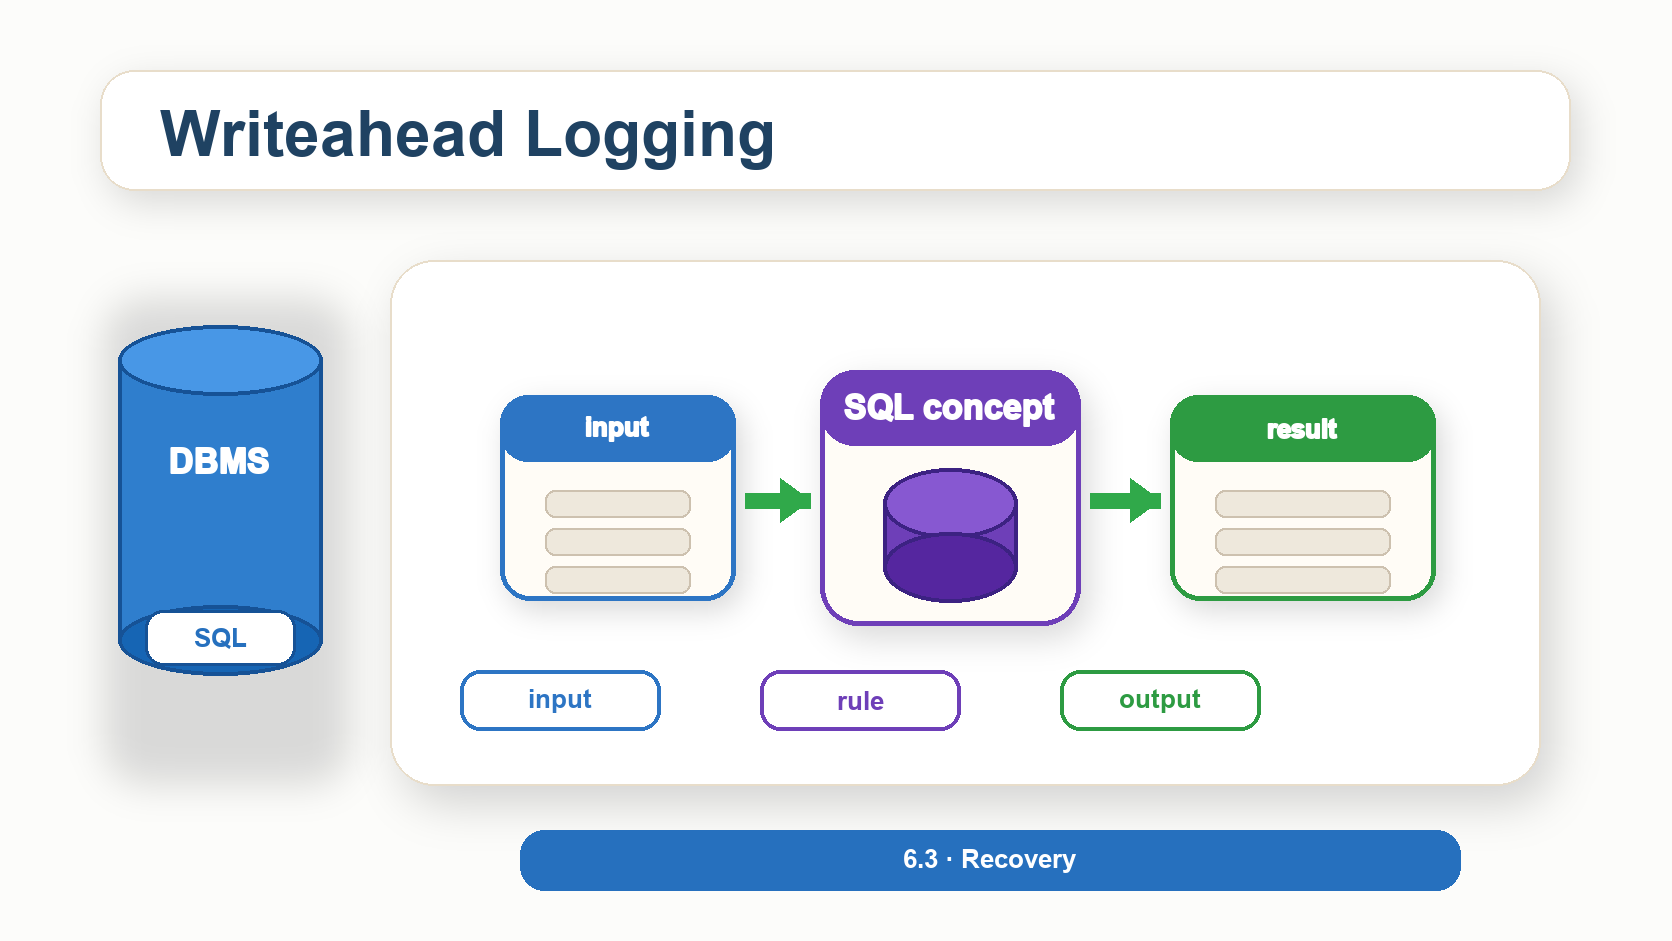
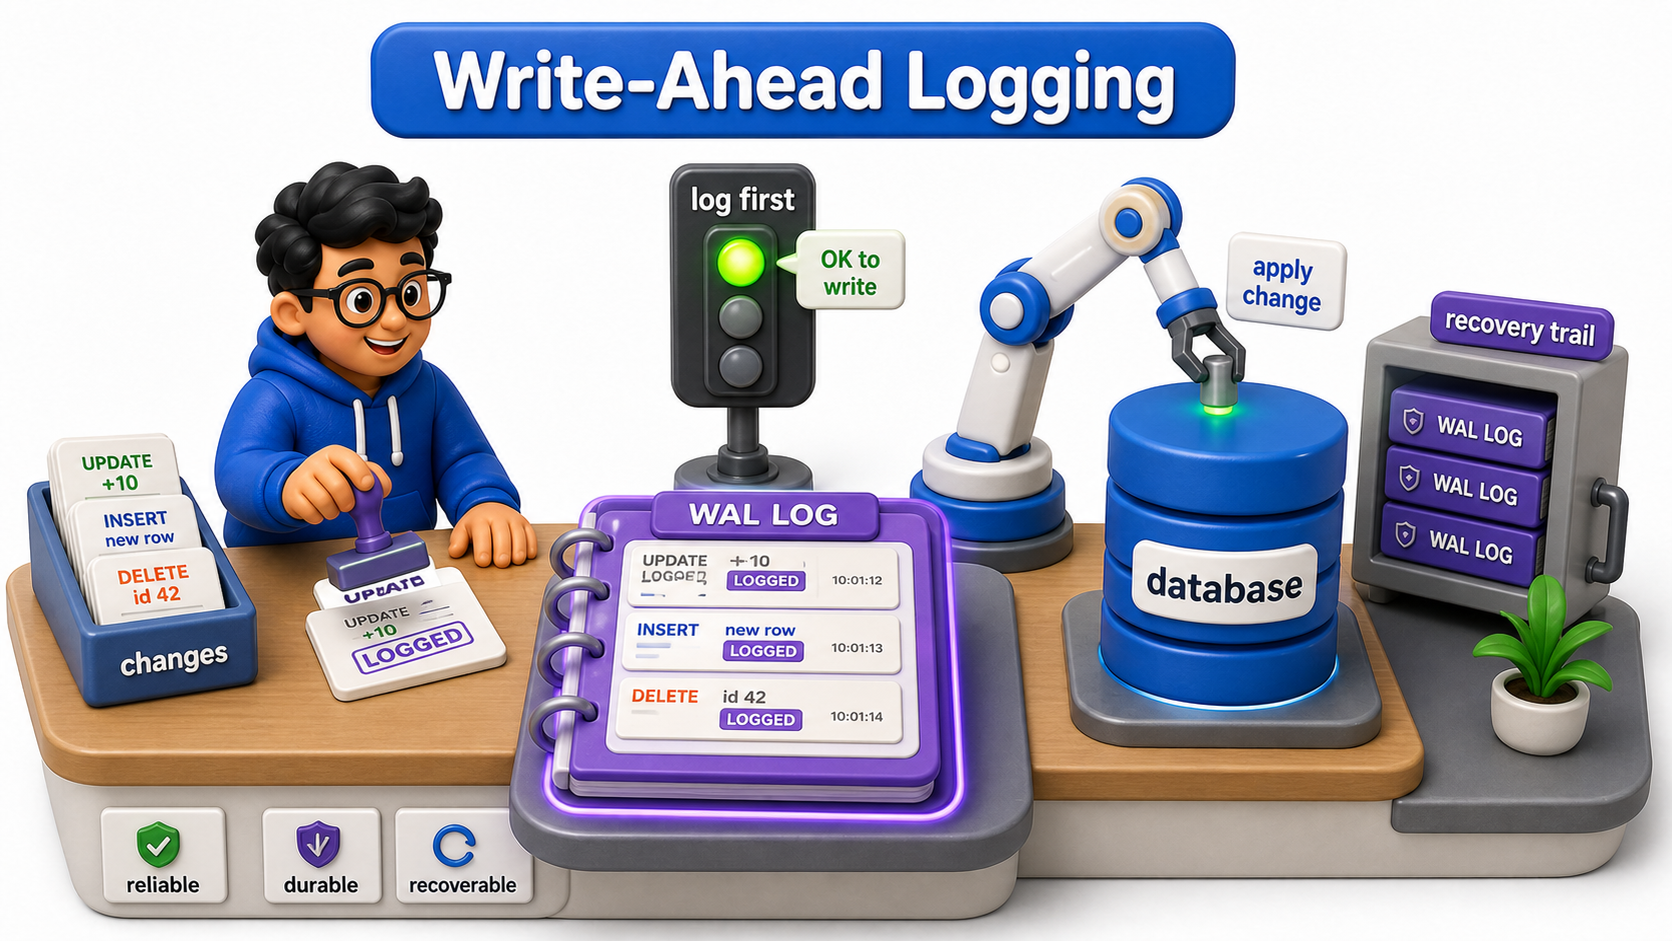
Replace unit 6.3 intro placeholders with actual 3D visuals

diff --git a/content/DBMS_Upload_Chapters/6.3 - Recovery/05_transactions_in_application_code.md b/content/DBMS_Upload_Chapters/6.3 - Recovery/05_transactions_in_application_code.md
@@ -6,7 +6,7 @@ Closing out this unit means connecting everything learned about transactions, AC
 
 **Definition:** Every guarantee this unit has built, atomicity, consistency, isolation, durability, concurrency control, and crash recovery, ultimately exists so that application code can follow one simple, disciplined pattern: begin a transaction around exactly the statements that must succeed or fail together, commit only when all of them succeed, roll back on any failure, keep the transaction short, and retry safely when a deadlock is the cause.
 
-![Intro visual for transactions in application code](https://s3.ap-south-1.amazonaws.com/static.bytexl.app/uploads/44sjn9mdv/content/images/05_intro_transactions_in_application_code_clean_bf801640.png)
+![Intro visual for transactions in application code](https://s3.ap-south-1.amazonaws.com/static.bytexl.app/uploads/44sjn9mdv/content/images/05_intro_transactions_in_application_code_actual3d_62f8324f.png)
 
 ## Auto-commit: The Default Behavior Worth Knowing About
 

diff --git a/content/DBMS_Upload_Chapters/6.3 - Recovery/04_undo_and_redo_how_a_database_rolls_back_and_replay.md b/content/DBMS_Upload_Chapters/6.3 - Recovery/04_undo_and_redo_how_a_database_rolls_back_and_replay.md
@@ -6,7 +6,7 @@ Committed work must be preserved, durability demands it. Uncommitted work must b
 
 **Definition:** Redo reapplies every committed transaction's changes to guarantee durability, and undo reverses every uncommitted transaction's changes to guarantee atomicity, and together the two passes are what actually turn a crashed, potentially inconsistent set of data files back into an exact, correct reflection of every transaction that had genuinely finished before the crash.
 
-![Intro visual for undo and redo how a database rolls back](https://s3.ap-south-1.amazonaws.com/static.bytexl.app/uploads/44sjn9mdv/content/images/04_intro_undo_and_redo_how_a_database_rolls_back_and_repl_clean_1011bf80.png)
+![Intro visual for undo and redo how a database rolls back](https://s3.ap-south-1.amazonaws.com/static.bytexl.app/uploads/44sjn9mdv/content/images/04_intro_undo_and_redo_how_a_database_rolls_back_and_replay_actual3d_b1af3dde.png)
 
 ## Redo: Replaying Committed Work That Never Made It to Disk
 

diff --git a/content/DBMS_Upload_Chapters/6.3 - Recovery/03_checkpoints_bounding_how_far_back_recovery_must_go.md b/content/DBMS_Upload_Chapters/6.3 - Recovery/03_checkpoints_bounding_how_far_back_recovery_must_go.md
@@ -5,7 +5,7 @@
 
 **Definition:** A checkpoint marks a point where every previously logged change is guaranteed to already be written to the actual data files, giving recovery a recent, known starting point instead of forcing it to replay a database's entire history after every crash, at the cost of periodic disk activity that has to be balanced against how quickly the system needs to recover.
 
-![Intro visual for checkpoints bounding how far back recovery must go](https://s3.ap-south-1.amazonaws.com/static.bytexl.app/uploads/44sjn9mdv/content/images/03_intro_checkpoints_bounding_how_far_back_recovery_must_clean_a7001b25.png)
+![Intro visual for checkpoints bounding how far back recovery must go](https://s3.ap-south-1.amazonaws.com/static.bytexl.app/uploads/44sjn9mdv/content/images/03_intro_checkpoints_bounding_how_far_back_recovery_must_go_actual3d_a0599dd7.png)
 
 ## What a Checkpoint Actually Does
 

diff --git a/content/DBMS_Upload_Chapters/6.3 - Recovery/02_writeahead_logging.md b/content/DBMS_Upload_Chapters/6.3 - Recovery/02_writeahead_logging.md
@@ -6,7 +6,7 @@ This ordering, log first, data files second, is the entire foundation of how a d
 
 **Definition:** `Write-ahead logging` guarantees that a durable record of every change exists before the change is considered complete, which is what allows a database to safely defer the slower work of updating actual data files while still guaranteeing that a crash can never lose a committed transaction's effect.
 
-![Intro visual for writeahead logging](https://s3.ap-south-1.amazonaws.com/static.bytexl.app/uploads/44sjn9mdv/content/images/02_intro_writeahead_logging_clean_31131ca8.png)
+![Intro visual for writeahead logging](https://s3.ap-south-1.amazonaws.com/static.bytexl.app/uploads/44sjn9mdv/content/images/02_intro_writeahead_logging_actual3d_a575025e.png)
 
 ## Why Writing Directly to Data Files Is Not Enough
 

diff --git a/content/DBMS/6 - Transactions & Reliability/6.3 - Recovery/04_undo_and_redo_how_a_database_rolls_back_and_replay.md b/content/DBMS/6 - Transactions & Reliability/6.3 - Recovery/04_undo_and_redo_how_a_database_rolls_back_and_replay.md
@@ -20,7 +20,7 @@ ON-IMAGE TEXT: show a short bold title "Undo And Redo How A Database Rolls Back"
 GOAL: make the opening idea instantly clear and engaging while matching the existing DBMS reading-material image standards.
 -->
 
-![Intro visual for undo and redo how a database rolls back](https://s3.ap-south-1.amazonaws.com/static.bytexl.app/uploads/44sjn9mdv/content/images/04_intro_undo_and_redo_how_a_database_rolls_back_and_repl_clean_1011bf80.png)
+![Intro visual for undo and redo how a database rolls back](https://s3.ap-south-1.amazonaws.com/static.bytexl.app/uploads/44sjn9mdv/content/images/04_intro_undo_and_redo_how_a_database_rolls_back_and_replay_actual3d_b1af3dde.png)
 
 ## Redo: Replaying Committed Work That Never Made It to Disk
 

diff --git a/content/DBMS/6 - Transactions & Reliability/6.3 - Recovery/03_checkpoints_bounding_how_far_back_recovery_must_go.md b/content/DBMS/6 - Transactions & Reliability/6.3 - Recovery/03_checkpoints_bounding_how_far_back_recovery_must_go.md
@@ -19,7 +19,7 @@ ON-IMAGE TEXT: show a short bold title "Checkpoints Bounding How Far Back Recove
 GOAL: make the opening idea instantly clear and engaging while matching the existing DBMS reading-material image standards.
 -->
 
-![Intro visual for checkpoints bounding how far back recovery must go](https://s3.ap-south-1.amazonaws.com/static.bytexl.app/uploads/44sjn9mdv/content/images/03_intro_checkpoints_bounding_how_far_back_recovery_must_clean_a7001b25.png)
+![Intro visual for checkpoints bounding how far back recovery must go](https://s3.ap-south-1.amazonaws.com/static.bytexl.app/uploads/44sjn9mdv/content/images/03_intro_checkpoints_bounding_how_far_back_recovery_must_go_actual3d_a0599dd7.png)
 
 ## What a Checkpoint Actually Does
 

diff --git a/content/DBMS/6 - Transactions & Reliability/6.3 - Recovery/05_transactions_in_application_code.md b/content/DBMS/6 - Transactions & Reliability/6.3 - Recovery/05_transactions_in_application_code.md
@@ -20,7 +20,7 @@ ON-IMAGE TEXT: show a short bold title "Transactions In Application Code" plus o
 GOAL: make the opening idea instantly clear and engaging while matching the existing DBMS reading-material image standards.
 -->
 
-![Intro visual for transactions in application code](https://s3.ap-south-1.amazonaws.com/static.bytexl.app/uploads/44sjn9mdv/content/images/05_intro_transactions_in_application_code_clean_bf801640.png)
+![Intro visual for transactions in application code](https://s3.ap-south-1.amazonaws.com/static.bytexl.app/uploads/44sjn9mdv/content/images/05_intro_transactions_in_application_code_actual3d_62f8324f.png)
 
 ## Auto-commit: The Default Behavior Worth Knowing About
 

diff --git a/content/DBMS/6 - Transactions & Reliability/6.3 - Recovery/02_writeahead_logging.md b/content/DBMS/6 - Transactions & Reliability/6.3 - Recovery/02_writeahead_logging.md
@@ -20,7 +20,7 @@ ON-IMAGE TEXT: show a short bold title "Writeahead Logging" plus only these few 
 GOAL: make the opening idea instantly clear and engaging while matching the existing DBMS reading-material image standards.
 -->
 
-![Intro visual for writeahead logging](https://s3.ap-south-1.amazonaws.com/static.bytexl.app/uploads/44sjn9mdv/content/images/02_intro_writeahead_logging_clean_31131ca8.png)
+![Intro visual for writeahead logging](https://s3.ap-south-1.amazonaws.com/static.bytexl.app/uploads/44sjn9mdv/content/images/02_intro_writeahead_logging_actual3d_a575025e.png)
 
 ## Why Writing Directly to Data Files Is Not Enough
 
